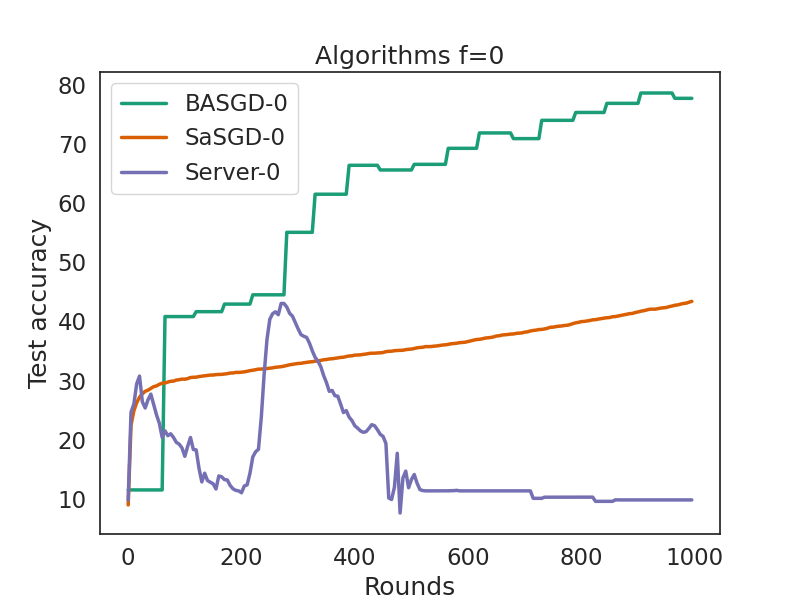
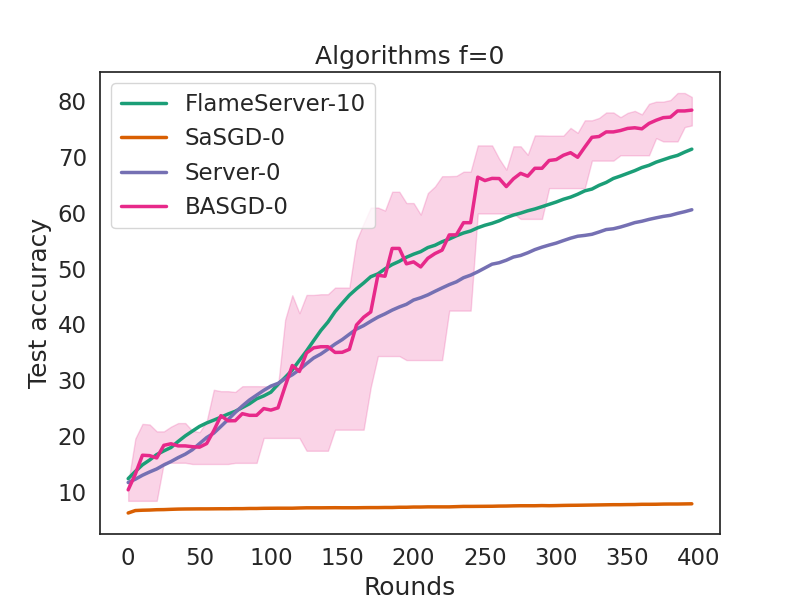
update flame

diff --git a/asyncfl/exps/exp30_flame_mnist.py b/asyncfl/exps/exp30_flame_mnist.py
@@ -44,13 +44,13 @@ if __name__ == '__main__':
         # num_byz_nodes = [0, 1, 3]
         num_byz_nodes = [0]
         # num_byz_nodes = [0]
-        num_rounds = 500
+        num_rounds = 400
         idx = 1
         repetitions = 1
         exp_id = 0
         # server_lr = 0.1
-        server_lr = 0.1
-        num_clients = 10
+        server_lr = 0.01
+        num_clients = 50
 
         attacks = [
             [AFL.NGClient, {'magnitude': 10,'sampler': 'uniform','sampler_args': {}}],
@@ -63,11 +63,13 @@ if __name__ == '__main__':
             # [AFL.FlameServer,{'learning_rate': server_lr, 'hist_size': 20}],
             # [AFL.FlameServer,{'learning_rate': server_lr, 'hist_size': 30}],
             # [AFL.Kardam,{'learning_rate': server_lr, 'damp_alpha': 0.01,}],
-            # [AFL.SaSGD,{'learning_rate': server_lr}],
+            [AFL.SaSGD,{'learning_rate': server_lr}],
             # [AFL.FedAsync,{'learning_rate': server_lr}],
             # [AFL.FedWait,{'learning_rate': server_lr}],
-            # [AFL.Server,{'learning_rate': server_lr}],
-            # [AFL.BASGD,{'learning_rate': server_lr, 'num_buffers': num_clients // 4}],
+            [AFL.Server,{'learning_rate': server_lr}],
+            [AFL.BASGD,{'learning_rate': server_lr, 'num_buffers': num_clients // 4}],
+            [AFL.BASGD,{'learning_rate': server_lr, 'num_buffers': num_clients // 8}],
+            [AFL.BASGD,{'learning_rate': server_lr, 'num_buffers': num_clients // 16}],
 
             # [AFL.Telerig,{'learning_rate': server_lr, 'damp_alpha': 0.3, 'eps': 0.5}],
             # [AFL.Telerig,{'learning_rate': server_lr, 'damp_alpha': 0.3, 'eps': 1.0}],
